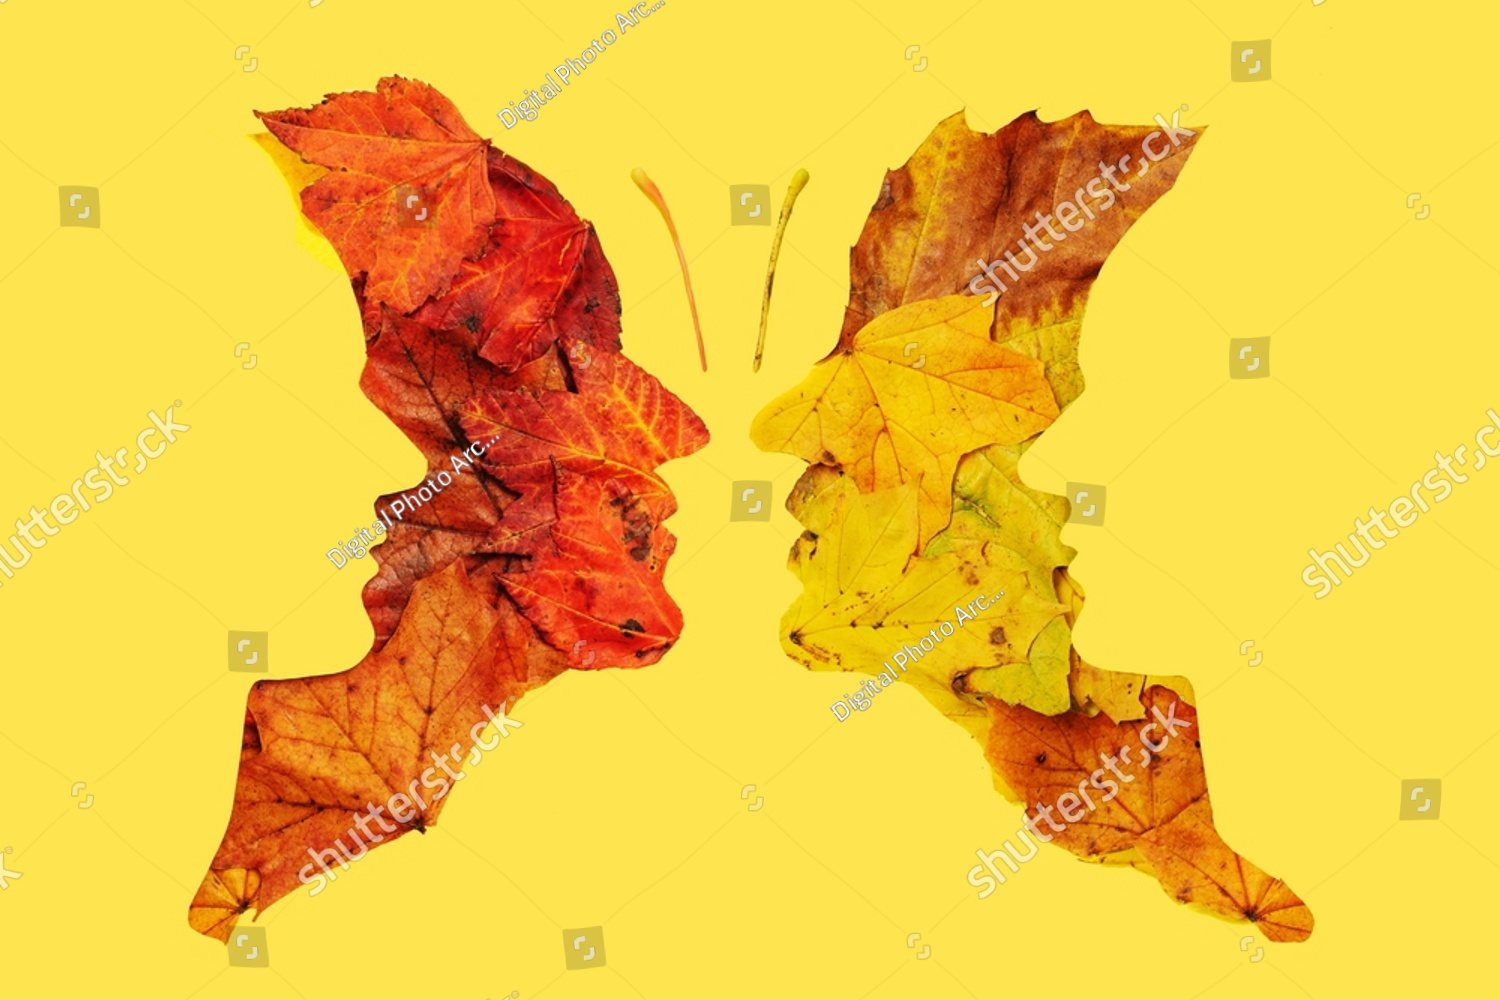
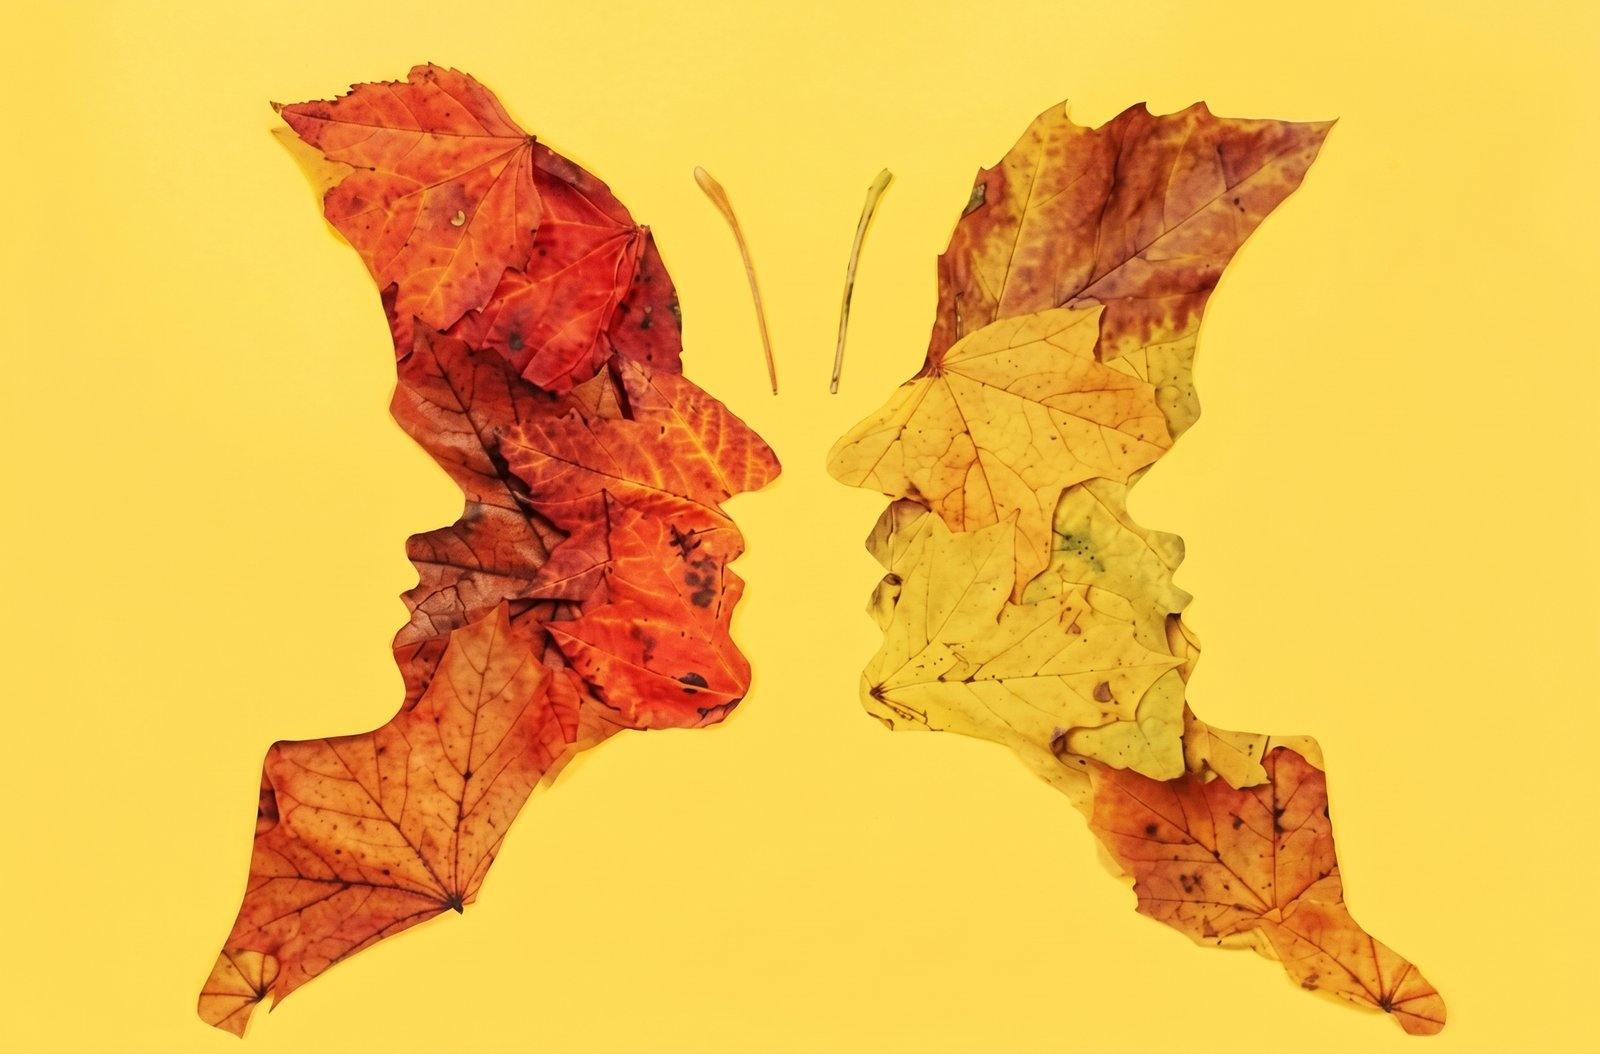
Νέες εικόνες χωρίς υδατογράφημα στην Αρχική και στην Ψυχοθεραπεία
Claude-Session: https://claude.ai/code/session_01M6vLVN8QhtwFNJpC7WV82u

diff --git a/index.html b/index.html
@@ -449,7 +449,7 @@ footer{background:#2E1A0B;color:rgba(242,243,239,.6);padding:60px clamp(22px,5vw
 <section class="welcome" id="arxiki">
   <div class="wrap">
     <div class="wel-grid">
-      <figure class="wel-img rv-l"><img src="assets/home-leaves.jpg" width="1500" height="1000" alt="Δύο πρόσωπα από φθινοπωρινά φύλλα, το ένα απέναντι στο άλλο" loading="lazy"></figure>
+      <figure class="wel-img rv-l"><img src="assets/home-leaves.jpg?v=2" width="1600" height="1054" alt="Δύο πρόσωπα από φθινοπωρινά φύλλα, το ένα απέναντι στο άλλο" loading="lazy"></figure>
       <div class="wel-txt rv-r">
         <p data-i="wel_p1">Η Ψυχοθεραπεία είναι μια διαδικασία προσωπικής εξερεύνησης, μέσα σε μια σχέση εμπιστοσύνης, αποδοχής και σεβασμού.</p>
         <p data-i="wel_p2">Στόχος μου είναι να δημιουργώ μια θεραπευτική σχέση εμπιστοσύνης, μέσα στην οποία κάθε άνθρωπος μπορεί να προχωρήσει με τον δικό του ρυθμό προς μια πιο ισορροπημένη και ουσιαστική ζωή.</p>
@@ -476,7 +476,7 @@ footer{background:#2E1A0B;color:rgba(242,243,239,.6);padding:60px clamp(22px,5vw
         <p class="psy-sub" data-i="psy_sub">Ένας χώρος για να ανασάνεις</p>
         <div class="tline"></div>
         <p class="lead" data-i="psy_lead">Μια διαδικασία προσωπικής εξερεύνησης, μέσα σε μια σχέση εμπιστοσύνης, αποδοχής και σεβασμού.</p>
-        <figure class="psy-img"><img src="assets/psy-rings.jpg" width="1500" height="936" alt="Αφηρημένα γεωμετρικά σχήματα σε ζεστούς γήινους τόνους" loading="lazy"></figure>
+        <figure class="psy-img"><img src="assets/psy-rings.jpg?v=2" width="1600" height="1007" alt="Αφηρημένα γεωμετρικά σχήματα σε ζεστούς γήινους τόνους" loading="lazy"></figure>
       </div>
       <div class="psy-right">
         <blockquote class="pq rv">
